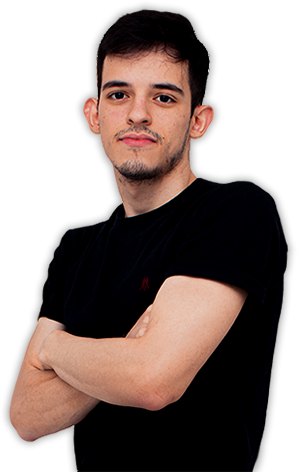
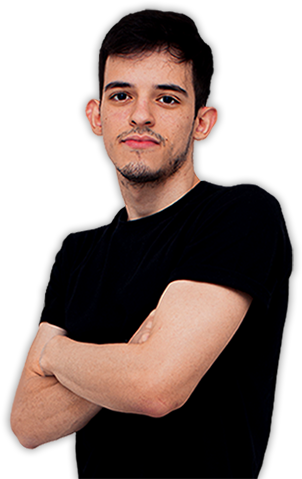
fix:links SM + img gyzer
links sm apontados para os sites corretos e onde não tiver link removido o _blank
removido pontos brancos nas bordas da foto do gyzer

diff --git a/time.html b/time.html
@@ -95,9 +95,9 @@
 							<span class="label-span-1"><span>NICK</span><span>KNCERATO</span></span>
 							<span class="label-span-1"><span>IDADE</span><span>24 ANOS</span></span>
 							<span class="label-span-1 last-social-label""><span>SOCIALS</span><span>
-								<a href="#" target="_blank"><i class="fab fa-twitter fa-xs"></i></a>
-								<a href="#" target="_blank"><i class="fab fa-instagram fa-xs"></i></a>
-								<a href="#" target="_blank"><i class="fab fa-twitch fa-xs"></i></a>
+								<a href="https://twitter.com/kncerato" target="_blank"><i class="fab fa-twitter fa-xs"></i></a>
+								<a href="https://www.instagram.com/kncerato/" target="_blank"><i class="fab fa-instagram fa-xs"></i></a>
+								<a href="https://www.twitch.tv/knceratoaqn/" target="_blank"><i class="fab fa-twitch fa-xs"></i></a>
 							</span></span>
 						</div>
 					</div>
@@ -111,9 +111,9 @@
 							<span class="label-span-1"><span>NICK</span><span>FREQ</span></span>
 							<span class="label-span-1"><span>IDADE</span><span>19 ANOS</span></span>
 							<span class="label-span-1 last-social-label""><span>SOCIALS</span><span>
-								<a href="#" target="_blank"><i class="fab fa-twitter fa-xs"></i></a>
-								<a href="#" target="_blank"><i class="fab fa-instagram fa-xs"></i></a>
-								<a href="#" target="_blank"><i class="fab fa-twitch fa-xs"></i></a>
+								<a href="https://twitter.com/freqfps" target="_blank"><i class="fab fa-twitter fa-xs"></i></a>
+								<a href="https://www.instagram.com/freqfps/" target="_blank"><i class="fab fa-instagram fa-xs"></i></a>
+								<a href="#"><i class="fab fa-twitch fa-xs"></i></a>
 							</span></span>
 						</div>
 					</div>
@@ -127,9 +127,9 @@
 							<span class="label-span-1"><span>NICK</span><span>CHAY</span></span>
 							<span class="label-span-1"><span>IDADE</span><span>19 ANOS</span></span>
 							<span class="label-span-1 last-social-label""><span>SOCIALS</span><span>
-								<a href="#" target="_blank"><i class="fab fa-twitter fa-xs"></i></a>
-								<a href="#" target="_blank"><i class="fab fa-instagram fa-xs"></i></a>
-								<a href="#" target="_blank"><i class="fab fa-twitch fa-xs"></i></a>
+								<a href="https://twitter.com/chayfps" target="_blank"><i class="fab fa-twitter fa-xs"></i></a>
+								<a href="https://www.instagram.com/chayfps/" target="_blank"><i class="fab fa-instagram fa-xs"></i></a>
+								<a href="https://www.twitch.tv/chayziK" target="_blank"><i class="fab fa-twitch fa-xs"></i></a>
 							</span></span>
 						</div>
 					</div>
@@ -140,12 +140,12 @@
 						<div class="div-foto-player"><img src="imagens/Fotos players/turnay-right-png.png" alt="kncerato" class="foto-player" style="top: 25px;"></div>
 						<div class="card-labels">
 							<span class="label-span-1"><span>NOME</span><span>HENRIQUE MENACHO</span></span>
-							<span class="label-span-1"><span>NICK</span><span>TURNAY</span></span>
+							<span class="label-span-1"><span>NICK</span><span>T9RNAY</span></span>
 							<span class="label-span-1"><span>IDADE</span><span>19 ANOS</span></span>
 							<span class="label-span-1 last-social-label""><span>SOCIALS</span><span>
-								<a href="#" target="_blank"><i class="fab fa-twitter fa-xs"></i></a>
-								<a href="#" target="_blank"><i class="fab fa-instagram fa-xs"></i></a>
-								<a href="#" target="_blank"><i class="fab fa-twitch fa-xs"></i></a>
+								<a href="https://twitter.com/turnayfps" target="_blank"><i class="fab fa-twitter fa-xs"></i></a>
+								<a href="https://www.instagram.com/t9rnay/" target="_blank"><i class="fab fa-instagram fa-xs"></i></a>
+								<a href="https://www.twitch.tv/t9rnay" target="_blank"><i class="fab fa-twitch fa-xs"></i></a>
 							</span></span>
 						</div>
 					</div>
@@ -159,9 +159,9 @@
 							<span class="label-span-1"><span>NICK</span><span>GYZER</span></span>
 							<span class="label-span-1"><span>IDADE</span><span>23 ANOS</span></span>
 							<span class="label-span-1 last-social-label""><span>SOCIALS</span><span>
-								<a href="#" target="_blank"><i class="fab fa-twitter fa-xs"></i></a>
-								<a href="#" target="_blank"><i class="fab fa-instagram fa-xs"></i></a>
-								<a href="#" target="_blank"><i class="fab fa-twitch fa-xs"></i></a>
+								<a href="https://twitter.com/gyzerfps" target="_blank"><i class="fab fa-twitter fa-xs"></i></a>
+								<a href="https://www.instagram.com/gugyzer/" target="_blank"><i class="fab fa-instagram fa-xs"></i></a>
+								<a href="#"><i class="fab fa-twitch fa-xs"></i></a>
 							</span></span>
 						</div>
 					</div>
@@ -175,9 +175,9 @@
 							<span class="label-span-1"><span>NICK</span><span>BLV</span></span>
 							<span class="label-span-1"><span>IDADE</span><span>29 ANOS</span></span>
 							<span class="label-span-1 last-social-label""><span>SOCIALS</span><span>
-								<a href="#" target="_blank"><i class="fab fa-twitter fa-xs"></i></a>
-								<a href="#" target="_blank"><i class="fab fa-instagram fa-xs"></i></a>
-								<a href="#" target="_blank"><i class="fab fa-twitch fa-xs"></i></a>
+								<a href="https://twitter.com/denisblv" target="_blank"><i class="fab fa-twitter fa-xs"></i></a>
+								<a href="https://www.instagram.com/deniscavila/" target="_blank"><i class="fab fa-instagram fa-xs"></i></a>
+								<a href="#"><i class="fab fa-twitch fa-xs"></i></a>
 							</span></span>
 						</div>
 					</div>
